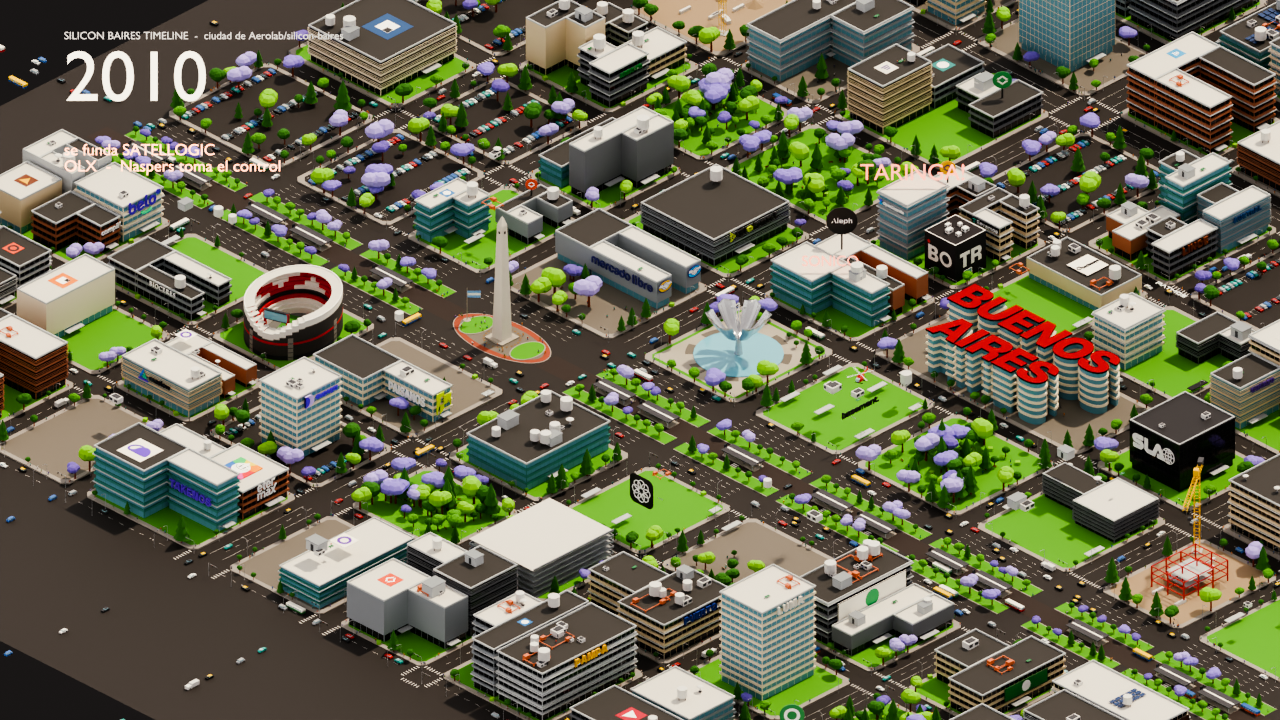
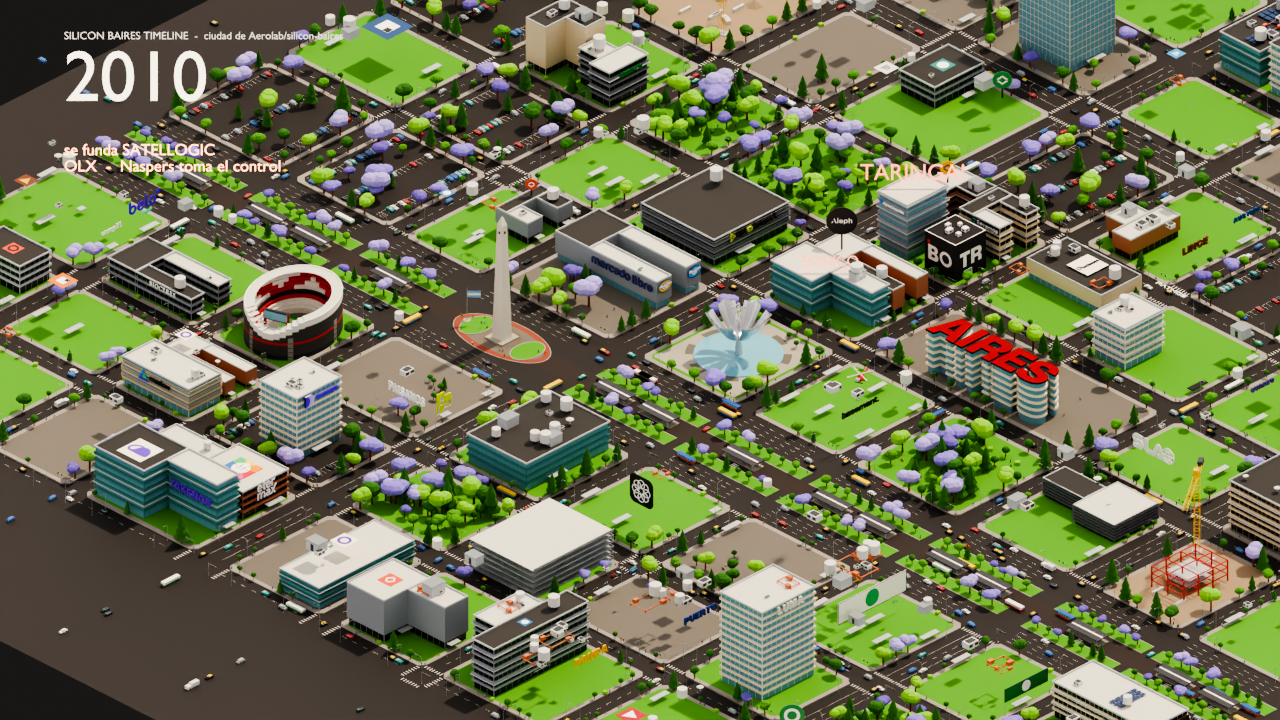
La ciudad entera se construye: arranca casi vacía y se llena
Antes crecían 28 edificios y el resto ya estaba puesto, así que en 1995 la
ciudad se veía igual que en 2026 salvo por un puñado de torres. Ahora se
levantan los 123 sitios, el título BUENOS AIRES se arma letra por letra, y el
tránsito y la gente empiezan en el 10% y van entrando: 210 autos en 1995
contra 1.972 al final, 238 personas contra 2.511.

La diferencia importante es de qué habla cada capa. Las 30 empresas aparecen
en su año documentado. El resto del tejido —95 edificios que no son de nadie,
los autos, la gente, las letras— se reparte a lo largo del período con un
sesgo hacia los años tardíos. Eso es puesta en escena, no dato, y va dicho así
en el informe. Es determinista: la ciudad se construye siempre en el mismo
orden, porque si no cada render contaría otra historia.

SLA queda fechada en 2026 con confidence "user_provided": la indicó el autor
del repo y no está verificada contra fuente publicada. Es el último edificio
que se levanta.

diff --git a/scripts/timeline_layer.py b/scripts/timeline_layer.py
@@ -20,6 +20,7 @@ Uso:
         -P scripts/timeline_layer.py -- --repo .
 """
 
+import hashlib
 import json
 import math
 import os
@@ -203,7 +204,7 @@ def hito_year(text):
 
 # Que fraccion de su altura tiene el edificio el dia que la empresa se funda.
 # El resto lo gana creciendo.
-SEED_HEIGHT = 0.42
+SEED_HEIGHT = 0.30
 # Si la empresa no tiene hitos con fecha, tarda esto en llegar a su altura.
 DEFAULT_GROWTH_YEARS = 7
 
@@ -343,6 +344,97 @@ def split_buildings(city, targets, collection):
     bm.free()
     city.data.update()
     return made
+
+
+def deterministic_unit(*parts):
+    """Un numero estable en [0,1) a partir de coordenadas.
+
+    Estable entre corridas: la ciudad tiene que completarse siempre en el mismo
+    orden, si no cada render cuenta una historia distinta.
+    """
+    seed = "|".join("%.2f" % p if isinstance(p, float) else str(p)
+                    for p in parts)
+    digest = hashlib.sha1(seed.encode("utf-8")).hexdigest()
+    return int(digest[:8], 16) / float(0xFFFFFFFF)
+
+
+def fabric_year(at):
+    """En que ano aparece un edificio que NO es de ninguna empresa.
+
+    Esto es una decision de puesta en escena, no un dato: la ciudad arranca
+    casi vacia y se completa a lo largo del periodo. El exponente sesga el
+    reparto hacia los anos tardios, asi que al principio hay pocos edificios y
+    el barrio se llena a medida que avanza. Las empresas, en cambio, aparecen
+    en su ano documentado.
+    """
+    unit = deterministic_unit(at[0], at[1])
+    return YEAR_START + int((YEAR_END - YEAR_START) * (unit ** 0.62))
+
+
+def animate_city_fabric(city, sites, claimed_at, collection, report):
+    """Levanta TODO el resto de la ciudad a lo largo del periodo."""
+    rest = [(("fabric_%d" % index), site)
+            for index, site in enumerate(sites)
+            if (round(site["at"][0], 2), round(site["at"][1], 2))
+            not in claimed_at]
+    parts = split_buildings(city, rest, collection)
+    grow = int(FRAMES_PER_YEAR * 0.6)
+    for key, site in rest:
+        part = parts.get(key)
+        if part is None:
+            continue
+        frame_in = year_to_frame(fabric_year(site["at"]))
+        set_key_interpolation("BEZIER")
+        part.scale = (1.0, 1.0, 0.001)
+        part.keyframe_insert("scale", index=2, frame=1)
+        part.keyframe_insert("scale", index=2, frame=frame_in)
+        part.scale = (1.0, 1.0, 1.0)
+        part.keyframe_insert("scale", index=2, frame=frame_in + grow)
+    report["tejido_animado"] = len(parts)
+    report["tejido_nota"] = (
+        "Puesta en escena, no dato: los edificios que no son de ninguna "
+        "empresa se reparten a lo largo del periodo con un sesgo hacia los "
+        "anos tardios, para que la ciudad arranque casi vacia. El reparto es "
+        "determinista, asi que siempre se construye en el mismo orden.")
+
+
+def thin_early_life(collection_name, keep_at_start, report_key, report):
+    """Menos autos y menos gente al principio, mas a medida que avanza.
+
+    Tambien es puesta en escena. Cada objeto recibe un ano deterministico a
+    partir de su nombre; antes de ese ano no esta.
+    """
+    coll = bpy.data.collections.get(collection_name)
+    if coll is None:
+        return
+    objects = [o for o in coll.all_objects if o.type == "MESH"]
+    hidden = 0
+    for obj in objects:
+        unit = deterministic_unit(obj.name)
+        if unit < keep_at_start:
+            continue                       # estos estan desde el principio
+        share = (unit - keep_at_start) / max(1e-6, 1.0 - keep_at_start)
+        year = YEAR_START + int((YEAR_END - YEAR_START) * (share ** 0.75))
+        keyframe_visible_from(obj, year_to_frame(year))
+        hidden += 1
+    report[report_key] = {"total": len(objects), "escalonados": hidden,
+                          "presentes_desde_1995": len(objects) - hidden}
+
+
+def build_title_progressively(collection_name, report):
+    """Las letras de BUENOS AIRES se van armando de a una."""
+    coll = bpy.data.collections.get(collection_name)
+    if coll is None:
+        return
+    letters = sorted((o for o in coll.all_objects if o.type == "MESH"),
+                     key=lambda o: o.name)
+    if not letters:
+        return
+    span = YEAR_END - YEAR_START
+    for index, obj in enumerate(letters):
+        year = YEAR_START + int(span * (index + 1) / (len(letters) + 1))
+        keyframe_visible_from(obj, year_to_frame(year))
+    report["titulo_letras"] = len(letters)
 
 
 def plan_closed(root, sites, targets, report):
@@ -538,6 +630,15 @@ def animate_signs(root, scene, report, collection):
         })
 
     animate_closed(closed, parts, collection, by_year, end_by_year, report)
+
+    # Y ahora el resto de la ciudad: arranca casi vacia y se completa.
+    claimed_at = {(round(s["at"][0], 2), round(s["at"][1], 2))
+                  for _, s in targets}
+    if city is not None:
+        animate_city_fabric(city, sites, claimed_at, collection, report)
+    thin_early_life("TRAFFIC", 0.12, "transito", report)
+    thin_early_life("PEOPLE", 0.10, "gente", report)
+    build_title_progressively("TITLE", report)
 
     report["signs_animated"] = animated
     report["edificios_animados"] = built
